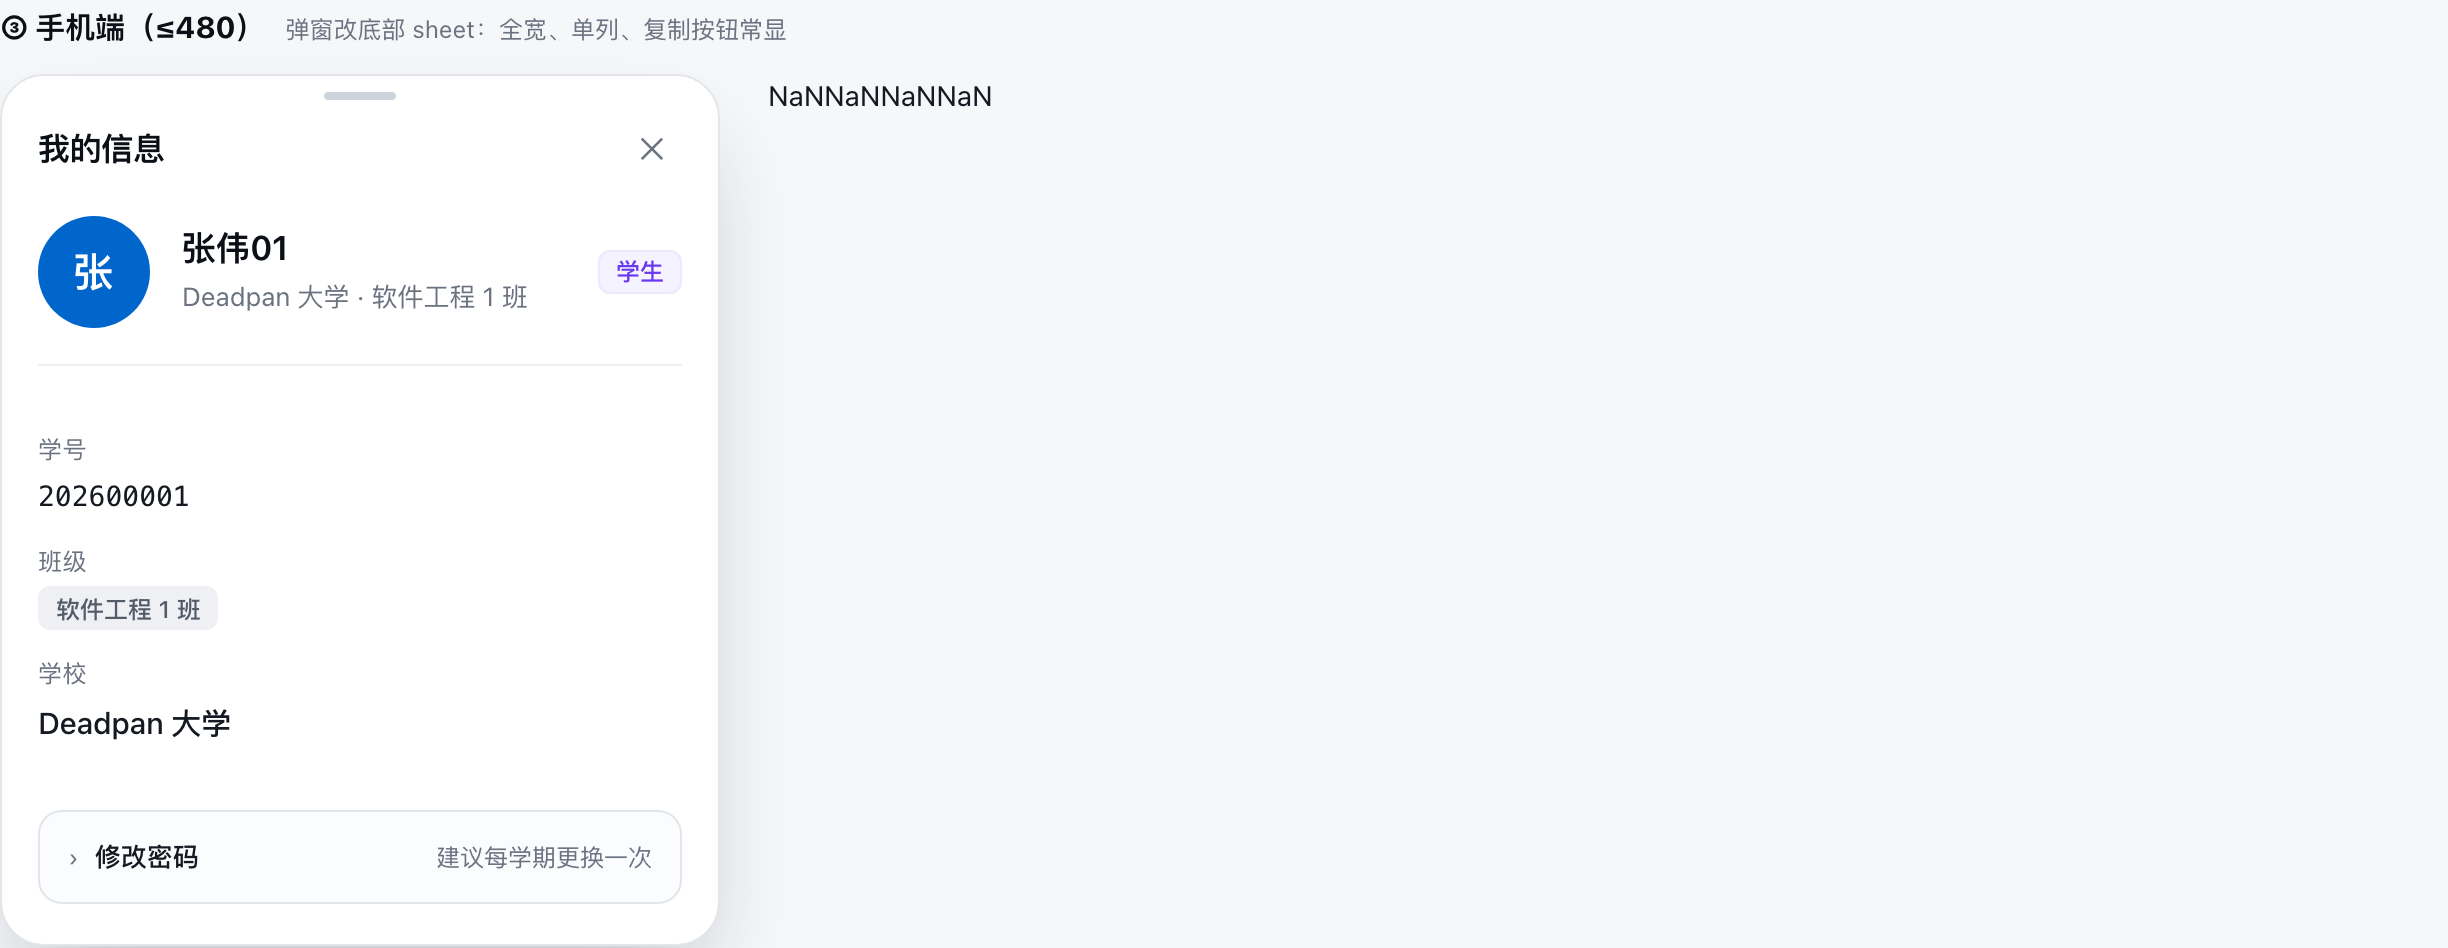
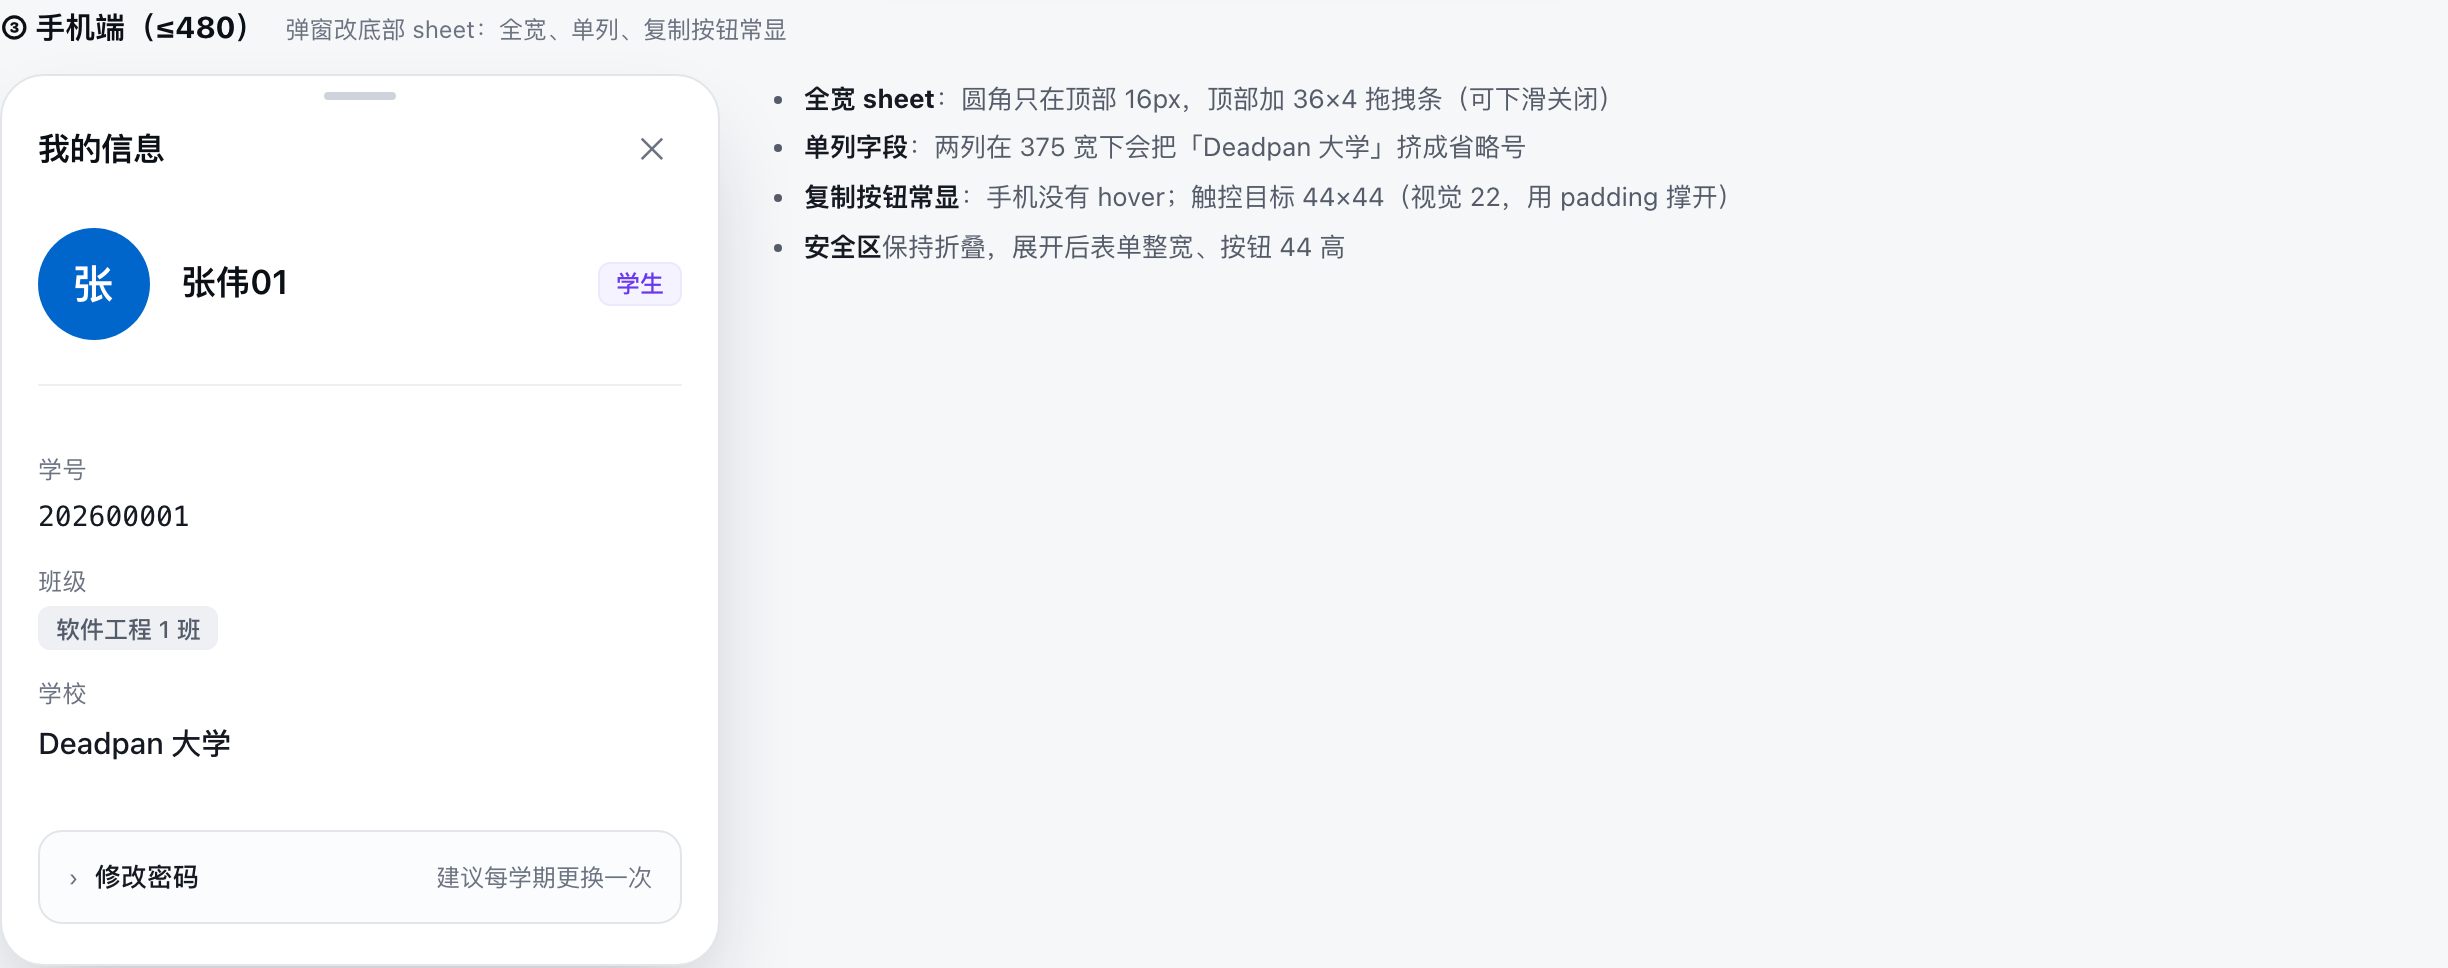
docs(ui): 名片提案修订 —— 名片区不再重复学校/班级，只留姓名 + 角色徽标
用户定案：学生端名字下一行不再显示「学校 · 班级」（下方资料区已有；长校名/长班名会挤破名片）。
教师端同理去掉「当前单位」次行（下方「当前单位」格已有）。名片区因此只剩 64 头像 + 姓名 18/600 + 角色徽标。

diff --git a/docs/ui-redesign/profile-card/README.md b/docs/ui-redesign/profile-card/README.md
@@ -17,7 +17,8 @@
 学生端每有一个班就重复一行「班级」标签 · 分隔线后用折叠面板藏「修改密码」。
 
 ## 提案结构（三区）
-1. **名片区**：64 圆头像（首字）+ 姓名 18/600 + 身份行 13 灰（学校 · 班级）+ 右侧角色徽标（教师=brand / 学生=accent）。
+1. **名片区**：64 圆头像（首字）+ 姓名 18/600 + 右侧角色徽标（教师=brand / 学生=accent）。
+   **不放单位/班级**（用户 2026-10-12 定案）：下方资料区已有同样信息，且长校名/长班名会把名片撑破或被迫省略；名片区只承担"这是谁"。
 2. **资料区**：两列 grid，**标签在上（12 灰）值在下（15/500）**；工号/学号用等宽 + **复制按钮**（hover 显形，手机常显，带 aria-label）；
    多班级改 chip 列表（不再重复标签）；教师端加「身份」格。
 3. **安全区**：12px 圆角分区卡片 + chevron（180ms 旋转）展开「修改密码」表单（标签在上、主按钮整宽）。
